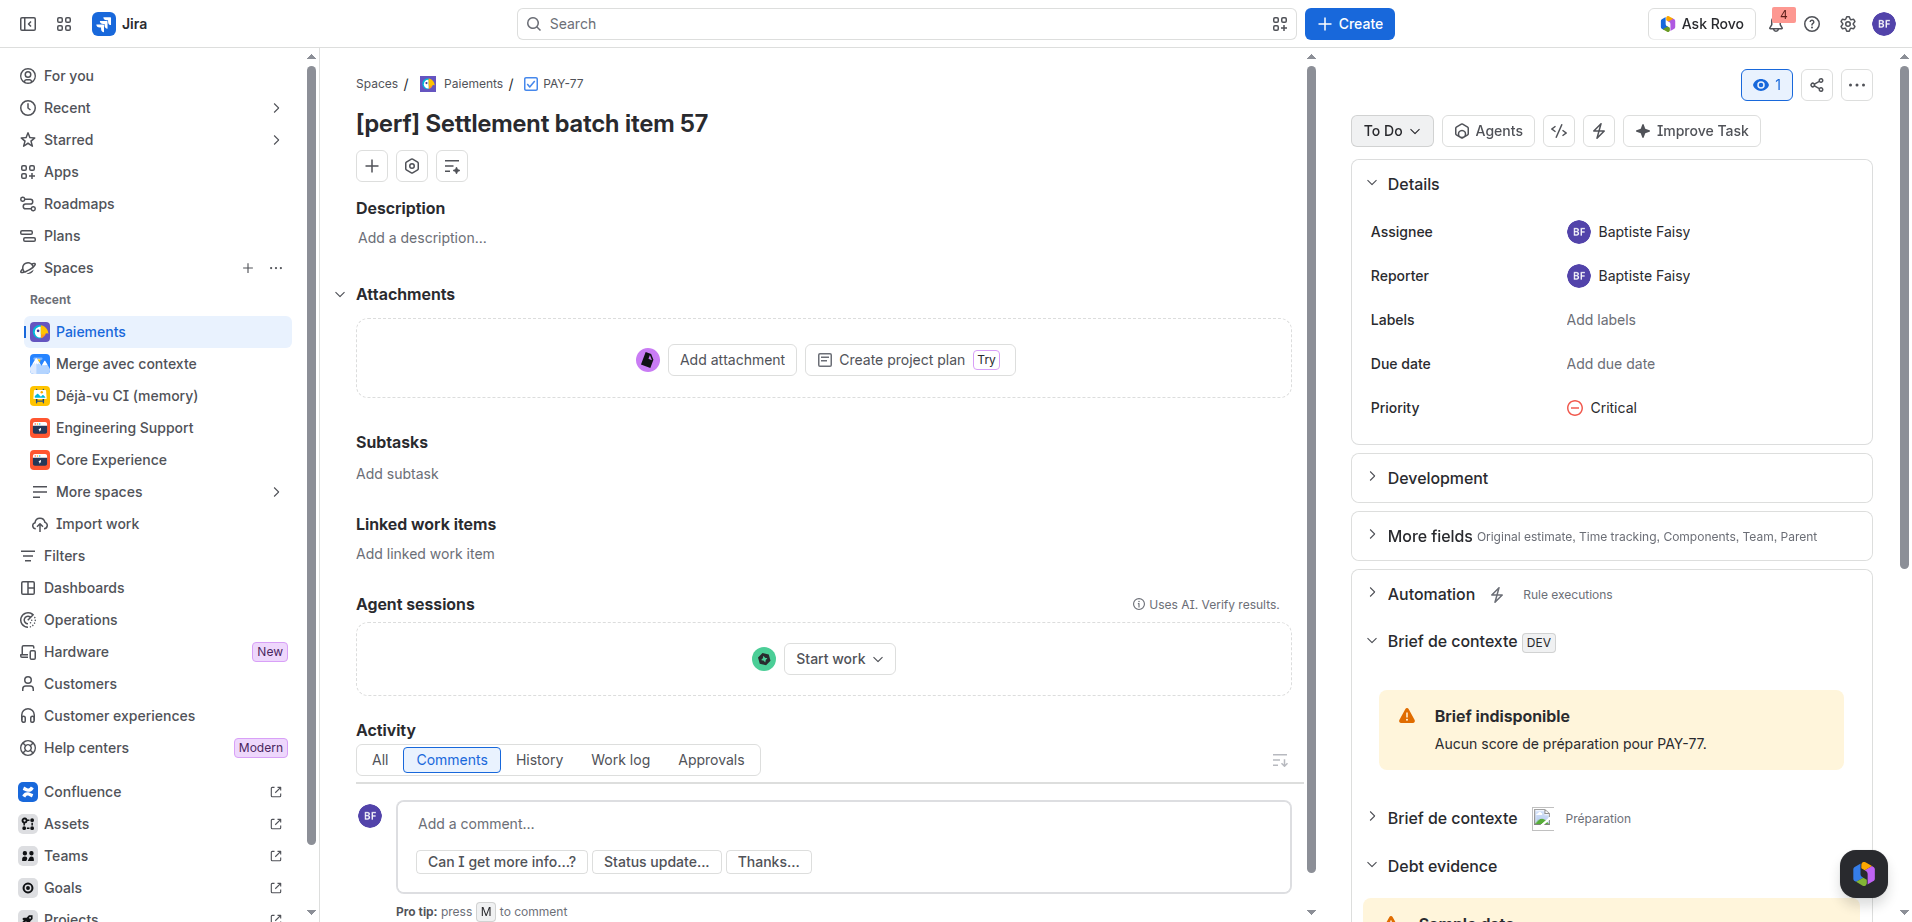
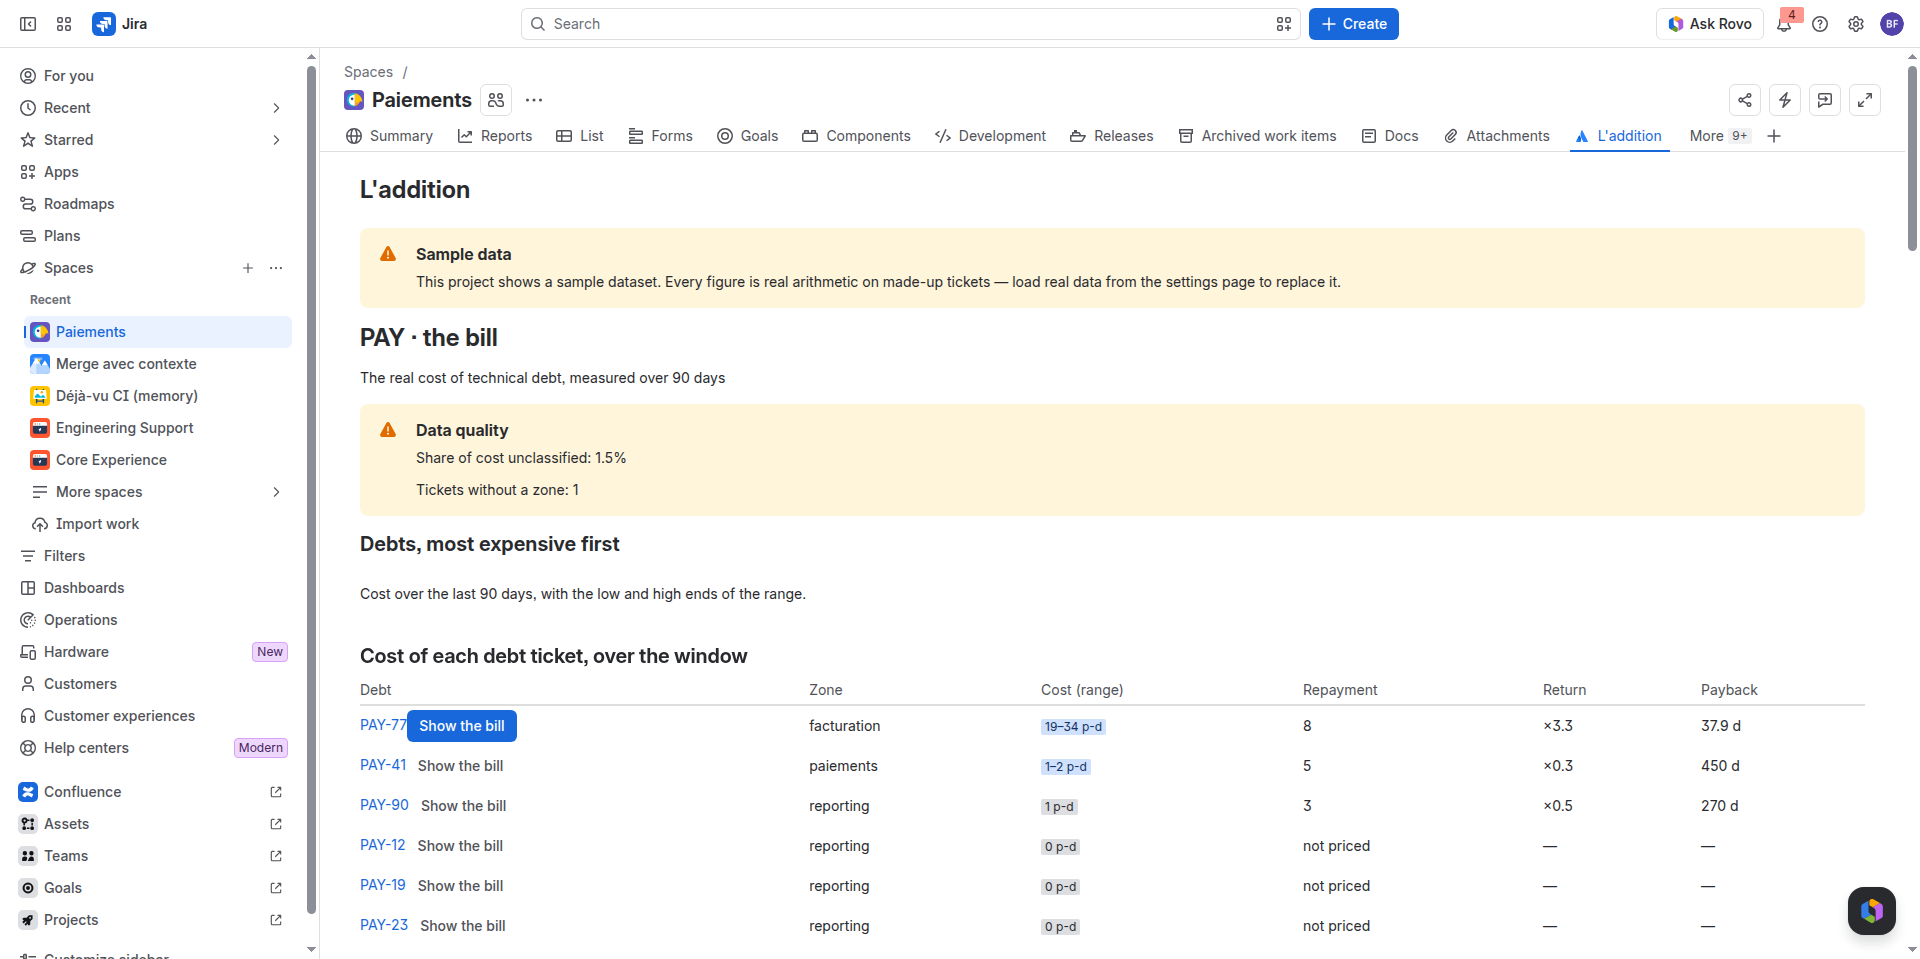
Captures : les douze écrans du site de démo (production), après trois correctifs trouvés à l'ouverture (#81)
* Captures : les douze écrans du site de démo, pris sur l'installation de production

Prise des 14 vues de `docs/CAPTURES.md` sur l'installation **production**
(version 3.4.0), projet **PAY**, jeu d'exemple chargé (68 faits, 65 preuves,
5 zones, 650 €/j), interface en anglais (la langue du compte de démonstration a
été passée en anglais le jour même).

Cette prise n'était pas une formalité : **les écrans n'avaient jamais affiché
une seule ligne de tableau**. Trois défauts trouvés, corrigés et mergés le jour
même (PR #75, #76, #77, #79, #80) :

1. le parseur de tableaux ne voyait pas les composants de ligne → **tous** les
   tableaux ne montraient que leurs en-têtes (classement, zones, dettes,
   preuves, méthode, gadget) ;
2. les parts de qualité étaient multipliées par cent (« 147 % » pour 1,47 %) ;
3. le jeu d'exemple utilisait des identifiants fictifs → le panneau de PAY-77
   répondait « ticket 66499 inconnu ».

Douze captures sont dans `docs/captures/` (01 à 09, 12, 13, 14) ; les deux
restantes — le gadget sur un tableau de bord et le chat Rovo — demandent un clic
que le script n'a pas atteint, la recette exacte est écrite dans
`docs/CAPTURES.md`. Le détail des vérifications est dans `docs/VALIDATIONS.md`.

* docs : le recalcul d'un projet réel échoue encore en production (point ouvert)

* Captures : retrait de la vue 10, qui ne montrait pas le gadget

diff --git a/docs/VALIDATIONS.md b/docs/VALIDATIONS.md
@@ -305,3 +305,28 @@ Vérifications complémentaires du même jour, sur le même site :
 Ce que cette sonde **ne prouve pas** : le rendu UI Kit 2 dans le navigateur
 (item H98) et les captures (item H99). Ces deux points exigent une session
 Atlassian authentifiée ; la procédure est prête dans `docs/CAPTURES.md`.
+
+## Vérification du 12/11 — les écrans ouverts dans un navigateur
+
+La prise des captures a été la première ouverture réelle des six écrans (item
+H98). Résultat : **trois défauts que ni la CI ni les tests de domaine ne
+voyaient**, tous corrigés et mergés le jour même.
+
+| Défaut trouvé à l'écran | Cause | Correctif |
+|---|---|---|
+| **Aucun tableau n'affichait de ligne** (classement, zones, dettes, preuves, méthode, gadget) | `parseTable` ne reconnaît que `Head`, `Row` et `Fragment` : un composant de ligne personnalisé (`RankingRow`…) était invisible, donc ignoré | #77 : `markTableRow` + `src/ui/table-parse.ts` (pur, testé) ; garde `src/ui/table-rows.test.ts` |
+| **« Part du coût non classé : 147 % »** pour 1,47 % | les parts de `DataQuality` sont des pourcentages (0-100), `formatPercent` attend un ratio 0-1 | #76 et #79 : `formatPercentValue`, sémantiques explicites dans `core/types.ts` |
+| **« ticket 66499 inconnu »** sur le panneau de PAY-77 | le jeu d'exemple est pur (identifiants dérivés des clés) alors que les écrans reçoivent l'identifiant Jira du ticket | #75 : alignement des identifiants sur les vrais tickets à l'injection |
+
+Autre constat du même jour : **l'installation de production datait d'avant les
+nouvelles colonnes** — les 20 `ALTER TABLE` sont refusés par Forge SQL, et le
+recalcul y échouait (`Unknown SQL execution error`, à `purgeProject`). Le schéma
+a été recréé (`?action=reset-schema`) puis le jeu d'exemple réinjecté ; le
+recalcul d'un projet réel reste à rejouer (point ouvert, voir
+`docs/NOTES-DE-SOUMISSION.md`).
+
+Après correction, les captures montrent bien : le classement complet (10 dettes,
+PAY-77 à 19–34 p-d), les zones (5), la dette fantôme, les 7 dettes mortes, le
+bulletin, la méthode (1,5 % de coût non classé), la simulation (3 dettes
+sélectionnées) et l'argumentaire de PAY-77 (remboursement 8 p-d, évitable
+26,6 p-d, retour ×3,3–×6, délai 37,9 j, 8 preuves, limites).

diff --git a/docs/CAPTURES.md b/docs/CAPTURES.md
@@ -62,10 +62,32 @@ files, each caption re-checked against `docs/MARKETPLACE.md` §8.
 
 ## State of the shoot (12 November 2026)
 
-Not shot yet: it needs an authenticated Atlassian session in the browser, and
-the agent never types credentials. Everything else is ready — the app is
-deployed (`production` 3.1.0, installed and upgraded), the sample dataset is
-loaded on **PAY** (68 facts, 65 evidence, 5 zones, 650 €/day), and the data path
-of all 26 read surfaces was verified live the same day (`?action=screens`, see
-`docs/VALIDATIONS.md`). What only a browser can prove: that UI Kit 2 renders
-without a runtime error, and the images themselves.
+**Twelve captures taken** (files 01 to 09, 12, 13, 14 — English UI, the demo
+account's language switched to English on the day). They were taken on the
+**production** install (`3.4.0`), project **PAY**, sample dataset loaded (68
+facts, 65 evidence, 5 zones, 650 €/day).
+
+Taking them was not a formality: **the screens had never rendered a single
+table row**. Opening the site for the shoot exposed three defects, all fixed
+and merged the same day (see `docs/VALIDATIONS.md`):
+
+1. the table parser could not see a row component → **every** table showed its
+   header and nothing else (fixed in #77, guarded by `src/ui/table-rows.test.ts`);
+2. the data-quality shares were multiplied by 100 → « 147 % » for 1,47 %
+   (fixed in #76 and #79);
+3. the sample dataset used fictional issue ids → opening PAY-77 answered «
+   ticket 66499 unknown » (fixed in #75, the sample is now aligned on the real
+   tickets).
+
+**Two captures remain**, both needing a click the automation did not reach:
+
+- **10 — the gadget**: open *Dashboards → Default dashboard* → *Edit* →
+  *Add gadget* → search *L'addition* → *Add*. The dashboard's own toolbar was
+  not reachable from the script (the page kept its toolbar out of the DOM).
+- **11 — the Rovo chat**: click *Ask Rovo* in the top bar, choose the
+  **L'addition** agent, ask *Prepare the argument for PAY-77*. The chat did not
+  open from the script either.
+
+Both are quick manual steps in a browser; the features behind them are
+verified live (the gadget data — top debts, cost per team, cost per quarter —
+and all 11 MCP actions answer on the site, see `docs/VALIDATIONS.md`).

diff --git a/docs/NOTES-DE-SOUMISSION.md b/docs/NOTES-DE-SOUMISSION.md
@@ -190,6 +190,17 @@
       en réel le 12/11 : 403 sans jeton, 200 avec.
 - [ ] Exécuter la procédure de gel (version 1.0.0 + tag) au gel du 15/12 —
       procédure ci-dessous.
+- [ ] **Rejouer le recalcul d'un projet réel sur l'installation de production**
+      (ouvert le 12/11) : `?action=recalc&project=ENGS` échoue par
+      « Unknown SQL execution error », la sonde `?action=write-path` localisant
+      l'échec dans `purgeProject` (les lectures et les écritures unitaires
+      passent, les six formes SQL testées aussi). Le schéma a été recréé
+      (`?action=reset-schema`) et le jeu d'exemple réinjecté, sans changement :
+      c'est la purge qu'il faut instrumenter (statements par table). Tant que
+      ce point est ouvert, **le passage nocturne ne peut pas être considéré
+      comme vérifié sur l'installation de production** — le projet de démo
+      (PAY) est en `demoData` et n'est donc pas recalculé, ce qui masque le
+      défaut.
 
 ## Publication de PRIVACY.md et TERMS.md — plan (item G95)
 
